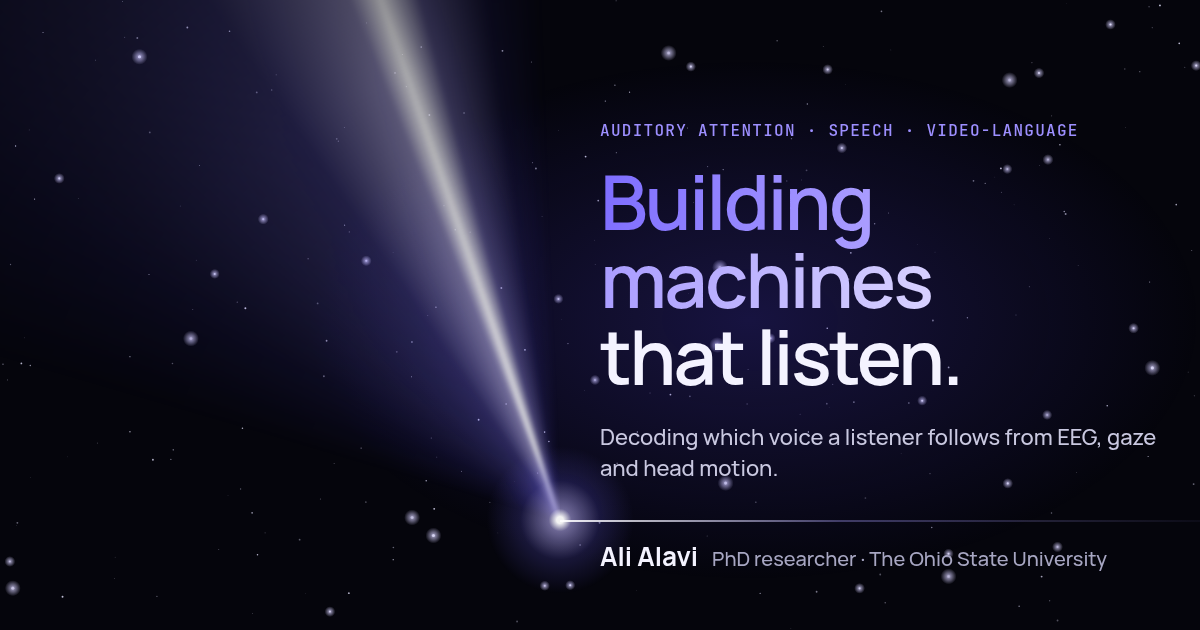
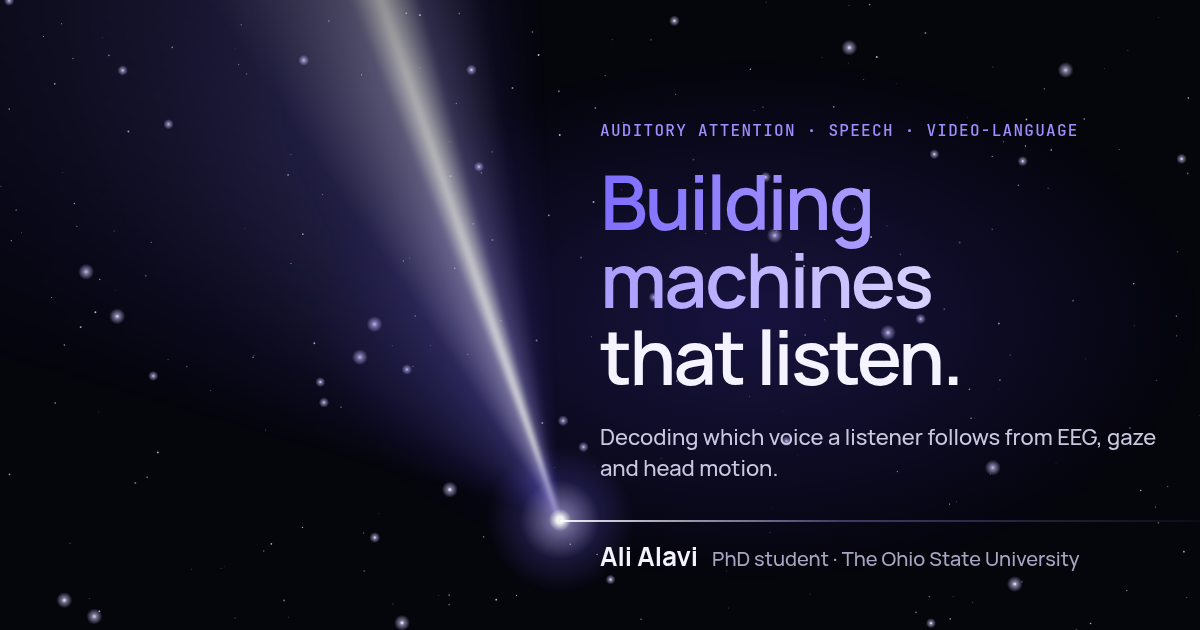
Use "PhD student" in résumé, site and share image

diff --git a/index.html b/index.html
@@ -4,7 +4,7 @@
 <meta charset="utf-8"/>
 <meta name="viewport" content="width=device-width, initial-scale=1"/>
 <title>Ali Alavi — Auditory Attention Decoding · Speech · Video-Language</title>
-<meta name="description" content="Ali Alavi (S. A. Alavi Bajestan), Ph.D. researcher in Computer Science at The Ohio State University. Auditory attention decoding from EEG, gaze and head motion; speech-quality metrics; neural audio coding; video-language reasoning."/>
+<meta name="description" content="Ali Alavi (S. A. Alavi Bajestan), Ph.D. student in Computer Science at The Ohio State University. Auditory attention decoding from EEG, gaze and head motion; speech-quality metrics; neural audio coding; video-language reasoning."/>
 <meta name="author" content="Ali Alavi"/>
 <meta name="theme-color" content="#05050C"/>
 <meta name="color-scheme" content="dark"/>
@@ -13,7 +13,7 @@
 
 <meta property="og:type" content="profile"/>
 <meta property="og:title" content="Ali Alavi — Building machines that listen"/>
-<meta property="og:description" content="Auditory attention decoding from EEG, gaze and head motion · speech-quality metrics · neural audio coding · video-language reasoning. PhD researcher, The Ohio State University."/>
+<meta property="og:description" content="Auditory attention decoding from EEG, gaze and head motion · speech-quality metrics · neural audio coding · video-language reasoning. PhD student, The Ohio State University."/>
 <meta property="og:url" content="https://salialavi.github.io"/>
 <meta property="og:image" content="https://salialavi.github.io/files/og-cover.png"/>
 <meta property="og:image:width" content="1200"/>
@@ -40,7 +40,7 @@
   "@type": "Person",
   "name": "Ali Alavi",
   "alternateName": ["S. A. Alavi Bajestan", "Seyed Ali Alavi Bajestan"],
-  "jobTitle": "PhD Researcher, Computer Science",
+  "jobTitle": "PhD Student, Computer Science",
   "affiliation": { "@type": "CollegeOrUniversity", "name": "The Ohio State University" },
   "url": "https://salialavi.github.io",
   "email": "mailto:alavibajestan.1@osu.edu",
@@ -86,7 +86,7 @@
   <!-- ===== Hero ===== -->
   <section class="hero" id="top" aria-labelledby="hero-title">
     <div class="wrap hero__text">
-      <p class="eyebrow reveal"><span class="eyebrow__dot" aria-hidden="true"></span>PhD researcher · Computer Science · The Ohio State University</p>
+      <p class="eyebrow reveal"><span class="eyebrow__dot" aria-hidden="true"></span>PhD student · Computer Science · The Ohio State University</p>
       <h1 class="hero__title reveal" id="hero-title"><span class="grad">Building machines</span><br/> that&nbsp;listen.</h1>
       <p class="hero__sub reveal">I decode which voice a listener follows from <strong>EEG, gaze and head motion</strong>, stress-test the <strong>speech-quality metrics</strong> we train against, and build <strong>video-language</strong> systems, with evaluation that holds up.</p>
       <div class="hero__cta reveal">

diff --git a/resume/Resume-AliAlavi.tex b/resume/Resume-AliAlavi.tex
@@ -70,7 +70,7 @@
 % =====================================================================
 \begin{center}
   {\sffamily\bfseries\fontsize{24}{26}\selectfont Ali Alavi}\\[3pt]
-  {\color{muted}\small Ph.D.\ researcher, Computer Science, The Ohio State University
+  {\color{muted}\small Ph.D.\ student, Computer Science, The Ohio State University
    \,·\, attention decoding, speech, multimodal \& video-language models}\\[3pt]
   \small
   \href{mailto:alavibajestan.1@osu.edu}{alavibajestan.1@osu.edu} \,|\,

diff --git a/README.md b/README.md
@@ -1,6 +1,6 @@
 # salialavi.github.io
 
-Personal site for **Ali Alavi** (S. A. Alavi Bajestan), PhD researcher in Computer
+Personal site for **Ali Alavi** (S. A. Alavi Bajestan), PhD student in Computer
 Science at The Ohio State University: auditory attention decoding from EEG, gaze and
 head motion; speech-quality metrics; neural audio coding; video-language reasoning.
 
